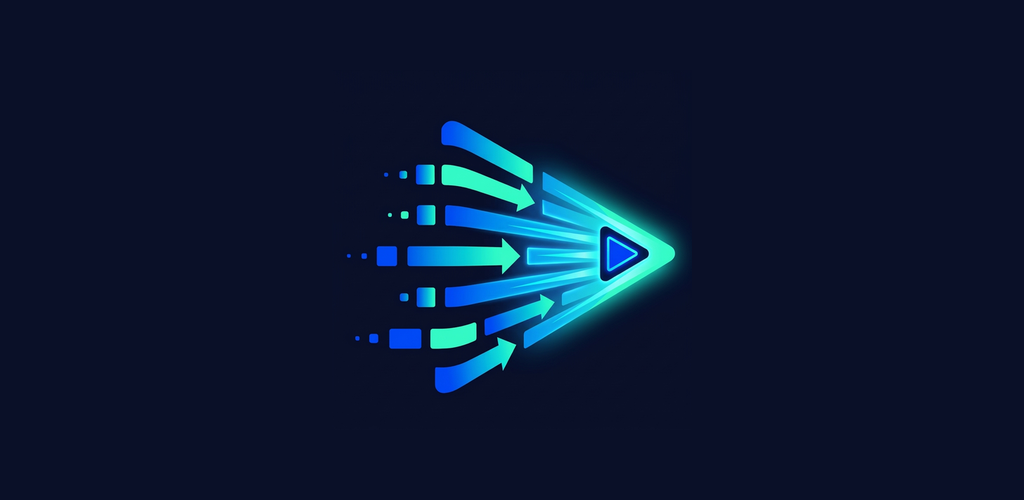
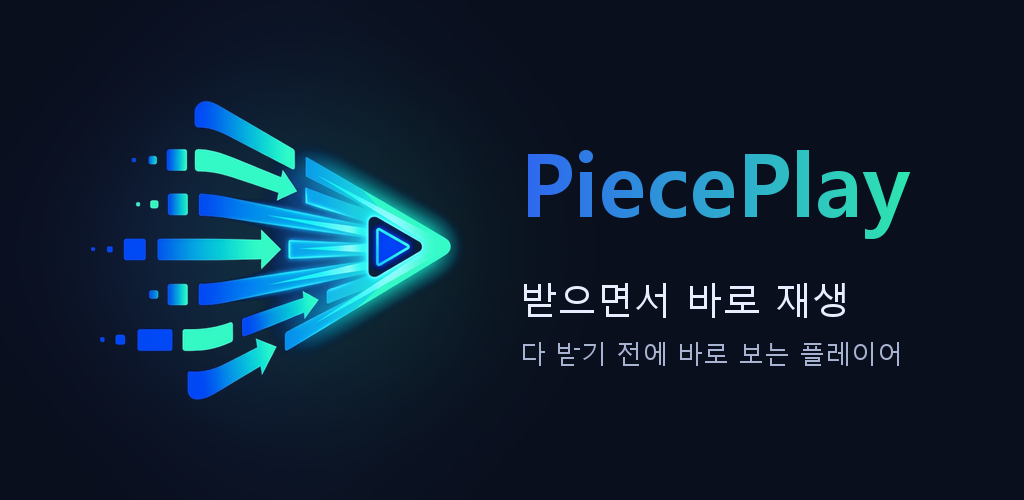
스토어 스크린샷·그래픽 이미지를 다크 브랜드 테마로 교체
- 옛 화면(Torrent Stream Player) 스크린샷 2장을 지우고 리뉴얼 화면 6장으로 교체
  (메인, 준비, 재생 가로·세로, 재생 목록, 저장 파일 관리). Play 비율 규칙에 맞춰
  1080x1920(가로 1장 1920x1080) 브랜드 틀에 넣고, 원본 캡처는 raw/에 둠
- 그래픽 이미지를 #0A0F1E 배경 + 로고 + 그라데이션 앱 이름으로 다시 만듦
- 테스트 광고 배너가 없도록 광고 화면은 오프라인으로 다시 열어 캡처
- 아이콘은 앱 런처 아이콘과 같은 파일이라 유지
- 만드는 스크립트와 업로드 목록을 README에 기록

Refs #49

Changed region(s): [[0.0938, 0.18, 0.9062, 0.81]]

diff --git a/launch/store-assets/tools/compose.py b/launch/store-assets/tools/compose.py
@@ -1,0 +1,39 @@
+import sys,os
+from PIL import Image, ImageDraw, ImageFont, ImageFilter
+S=sys.argv[1]; OUT=sys.argv[2]; os.makedirs(OUT,exist_ok=True)
+BG=(0x0A,0x0F,0x1E); C1=(0x2F,0x66,0xF0); C2=(0x2E,0xE6,0xB0); ON=(0xE8,0xEE,0xFF); SUB=(0xA7,0xB3,0xD1); OUTL=(0x2A,0x37,0x57)
+FB='C:/Windows/Fonts/malgunbd.ttf'; FR='C:/Windows/Fonts/malgun.ttf'
+def bg(W,H):
+    img=Image.new('RGB',(W,H),BG); gl=Image.new('RGBA',(W,H),(0,0,0,0)); g=ImageDraw.Draw(gl)
+    g.ellipse((-W*0.3,-H*0.15,W*0.7,H*0.35),fill=C1+(80,)); g.ellipse((W*0.5,-H*0.1,W*1.3,H*0.3),fill=C2+(45,))
+    gl=gl.filter(ImageFilter.GaussianBlur(min(W,H)//6)); img.paste(gl,(0,0),gl); return img
+def bar(d,x,y,w,h):
+    for i in range(w):
+        t=i/(w-1); d.line([(x+i,y),(x+i,y+h)],fill=tuple(int(C1[k]+(C2[k]-C1[k])*t) for k in range(3)))
+def shot(img,src,box,radius):
+    x,y,w,h=box; s=Image.open(src).convert('RGB').resize((w,h),Image.LANCZOS)
+    m=Image.new('L',(w,h),0); ImageDraw.Draw(m).rounded_rectangle((0,0,w-1,h-1),radius,fill=255)
+    sh=Image.new('RGBA',img.size,(0,0,0,0)); ImageDraw.Draw(sh).rounded_rectangle((x-6,y+10,x+w+6,y+h+22),radius+6,fill=(0,0,0,150))
+    sh=sh.filter(ImageFilter.GaussianBlur(18)); img.paste(sh,(0,0),sh)
+    img.paste(s,(x,y),m); ImageDraw.Draw(img).rounded_rectangle((x-2,y-2,x+w+1,y+h+1),radius+2,outline=OUTL,width=3)
+def text_c(d,W,y,t,f,fill):
+    b=d.textbbox((0,0),t,font=f); d.text(((W-(b[2]-b[0]))//2-b[0],y),t,font=f,fill=fill)
+def portrait(name,src,title,sub):
+    W,H=1080,1920; img=bg(W,H); d=ImageDraw.Draw(img)
+    text_c(d,W,92,title,ImageFont.truetype(FB,68),ON); text_c(d,W,192,sub,ImageFont.truetype(FR,36),SUB)
+    bar(d,W//2-60,262,120,6)
+    h=1560; w=round(h*1080/2400); shot(img,src,((W-w)//2,320,w,h),44)
+    img.save(os.path.join(OUT,name))
+def landscape(name,src,title,sub):
+    W,H=1920,1080; img=bg(W,H); d=ImageDraw.Draw(img)
+    text_c(d,W,56,title,ImageFont.truetype(FB,60),ON); text_c(d,W,146,sub,ImageFont.truetype(FR,32),SUB)
+    bar(d,W//2-60,206,120,6)
+    w=1560; h=round(w*1080/2400); shot(img,src,((W-w)//2,268,w,h),36)
+    img.save(os.path.join(OUT,name))
+F=lambda n: os.path.join(S,'final',n)
+portrait('01_main.png',F('01_main.png'),'링크만 넣으면 바로 재생','마그넷이나 .torrent 주소를 붙여넣으세요')
+portrait('02_preparing.png',F('02_preparing.png'),'다 받기 전에 재생 시작','앞부분 조각부터 받아 빠르게 준비')
+landscape('03_player_landscape.png',F('player_landscape.png'),'받으면서 보는 재생 화면','재생 위치와 받은 조각을 한눈에')
+portrait('04_player.png',F('player_portrait.png'),'세로 화면에서도 그대로','10초 이동 · 확대 · 배속 조절')
+portrait('05_playlist.png',F('02_playlist.png'),'재생 목록으로 한곳에서 관리','최근 50개를 기기에 암호화해 보관')
+portrait('06_stored_files.png',F('03_stored_files.png'),'저장 공간도 간편하게 정리','형식별로 모아 보고 바로 삭제')

diff --git a/launch/store-assets/tools/feature.py b/launch/store-assets/tools/feature.py
@@ -1,0 +1,31 @@
+import sys
+from PIL import Image, ImageDraw, ImageFont, ImageFilter
+fg_path, out = sys.argv[1], sys.argv[2]
+W,H=1024,500
+BG=(0x0A,0x0F,0x1E); C1=(0x2F,0x66,0xF0); C2=(0x2E,0xE6,0xB0)
+img=Image.new('RGB',(W,H),BG)
+# soft brand glow behind logo
+glow=Image.new('RGBA',(W,H),(0,0,0,0)); g=ImageDraw.Draw(glow)
+g.ellipse((60,40,520,460),fill=C1+(70,)); g.ellipse((200,110,520,390),fill=C2+(40,))
+glow=glow.filter(ImageFilter.GaussianBlur(90)); img.paste(glow,(0,0),glow)
+# logo (adaptive foreground, transparent)
+fg=Image.open(fg_path).convert('RGBA')
+bbox=fg.getchannel('A').point(lambda a:255 if a>8 else 0).getbbox(); fg=fg.crop(bbox)
+s=300/fg.height; fg=fg.resize((int(fg.width*s),300),Image.LANCZOS)
+img.paste(fg,(90,(H-300)//2),fg)
+d=ImageDraw.Draw(img)
+fb=ImageFont.truetype('C:/Windows/Fonts/malgunbd.ttf',88)
+fr=ImageFont.truetype('C:/Windows/Fonts/malgun.ttf',38)
+fs=ImageFont.truetype('C:/Windows/Fonts/malgun.ttf',26)
+x=520
+# wordmark with gradient fill
+title='PiecePlay'; tb=d.textbbox((0,0),title,font=fb); tw,th=tb[2]-tb[0],tb[3]-tb[1]
+mask=Image.new('L',(tw,th+30),0); ImageDraw.Draw(mask).text((-tb[0],-tb[1]),title,font=fb,fill=255)
+grad=Image.new('RGB',(tw,th+30))
+for i in range(tw):
+    t=i/max(1,tw-1); col=tuple(int(C1[k]+(C2[k]-C1[k])*t) for k in range(3))
+    ImageDraw.Draw(grad).line([(i,0),(i,th+30)],fill=col)
+ty=150; img.paste(grad,(x,ty),mask)
+d.text((x,ty+th+34),'받으면서 바로 재생',font=fr,fill=(0xE8,0xEE,0xFF))
+d.text((x,ty+th+96),'다 받기 전에 바로 보는 플레이어',font=fs,fill=(0xA7,0xB3,0xD1))
+img.save(out)

diff --git a/launch/store-assets/README.md b/launch/store-assets/README.md
@@ -1,0 +1,31 @@
+# 스토어 자료
+
+디자인 리뉴얼 5단계(#49)에서 새 다크 브랜드 테마(배경 `#0A0F1E`, 그라데이션 `#2F66F0 → #2EE6B0`)로 교체했다.
+
+## Play Console에 올리는 파일
+
+| Play Console 항목 | 파일 | 크기 |
+|---|---|---|
+| 앱 아이콘 | `1_Play_Store_Assets/app_icon_512x512.png` | 512x512 |
+| 그래픽 이미지 | `1_Play_Store_Assets/feature_graphic_1024x500.png` | 1024x500, 알파 없음 |
+| 휴대전화 스크린샷 | `4_Play_Store_Screenshots/01_main.png` ~ `06_stored_files.png` (6장, 번호 순서) | 1080x1920, `03`만 1920x1080 |
+
+- 스크린샷은 Play 규칙(긴 변이 짧은 변의 2배 이하)에 맞춰 1080x1920 틀 안에 실제 화면을 넣은 이미지다. 기기 원본 캡처(1080x2400)는 비율이 2.22:1이라 그대로는 올릴 수 없다.
+- 원본 캡처는 `4_Play_Store_Screenshots/raw/`에 있다. 2026-11-12 main 빌드(v.2026.11.12.002 디버그)를 에뮬레이터(1080x2400, 420dpi)에서 상태 표시줄 데모 모드로 찍었다.
+- 메인·재생 목록·저장 파일 관리는 네트워크를 끈 상태로 앱을 다시 열어 찍었다. 디버그 빌드의 테스트 광고 배너가 들어가지 않게 하려는 것이다(릴리스 빌드에서는 이 두 화면 하단에 배너가 나온다).
+- 준비 화면 캡처(`raw/preparing.png`)는 상태 표시줄 영역(위 63px)만 같은 세션의 다른 캡처로 바꿨다. 앱 화면은 손대지 않았다.
+
+## 아이콘
+
+`app_icon_512x512.png`, 적응형 아이콘, mipmap은 바꾸지 않았다. 앱에 들어 있는 런처 아이콘(`res/mipmap-*/pieceplay_launcher.png`)과 같은 파일이고 이미 남색·파랑→민트 브랜드다. 스토어 아이콘만 바꾸면 설치 후 아이콘과 달라진다. `app_icon_1024x1024_master.png`는 이름과 달리 512x512다.
+
+## 화면 속 영상
+
+재생·목록 화면의 영상은 Blender Foundation의 오픈 무비다(Sintel, Big Buck Bunny, Tears of Steel, Cosmos Laundromat). 모두 CC BY 라이선스(© Blender Foundation, blender.org)이며, 스토어 설명에 출처 문구를 넣을지는 등록정보 작업 때 정한다.
+
+## 다시 만들기
+
+`tools/`의 스크립트(Python + Pillow, Windows 맑은 고딕 글꼴)로 만들었다.
+
+- `feature.py <적응형 아이콘 전경 png> <출력>`: 그래픽 이미지
+- `compose.py <작업 폴더> <출력 폴더>`: 작업 폴더의 `final/` 아래 원본 캡처(`01_main.png`, `02_preparing.png`, `player_landscape.png`, `player_portrait.png`, `02_playlist.png`, `03_stored_files.png`)로 스크린샷 6장을 만든다. 문구는 스크립트 안에 있다.
